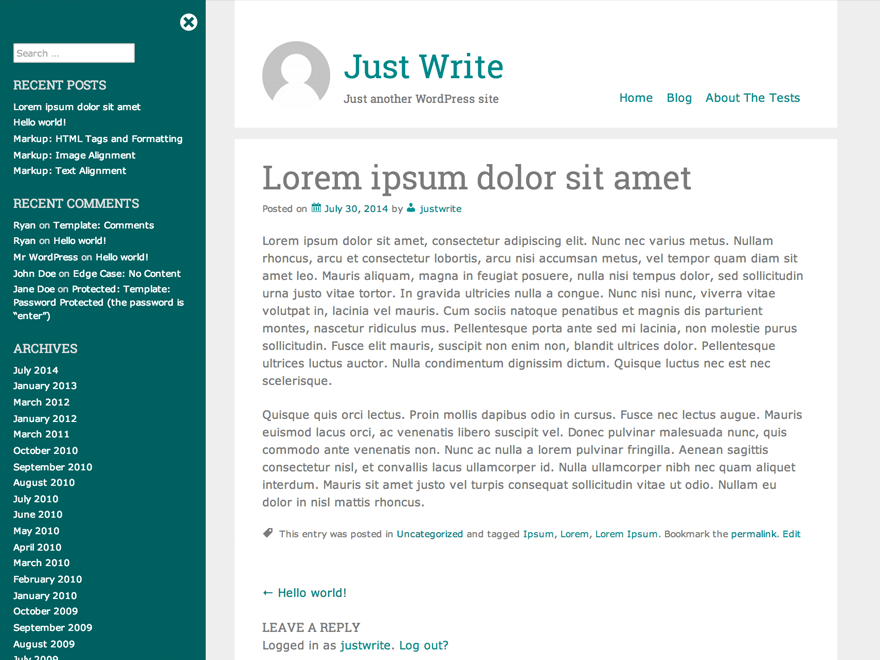
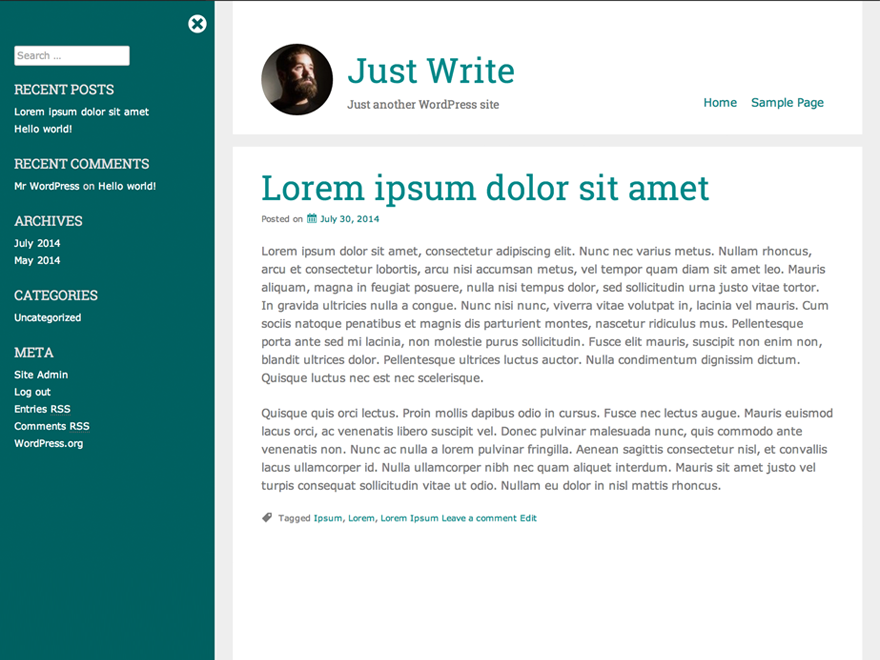
Fix Gravatar in header, add screenshot

diff --git a/style.css b/style.css
@@ -1,7 +1,7 @@
 @charset "UTF-8";
 /*!
 Theme Name: Just Write
-Theme URI: http://justwrite.ryanscowles.com/
+Theme URI: http://justwrite.ryanscowles.com
 Author: Ryan Cowles
 Author URI: http://ryanscowles.com
 Description: Just Write is a simple theme, geared towards writers and bloggers who want the focus of their site to be on their written content. It includes a primary menu, and a sidebar that can be toggled.
@@ -10,7 +10,7 @@ License: GNU General Public License v2 or later
 License URI: http://www.gnu.org/licenses/gpl-2.0.html
 Text Domain: just-write
 Domain Path: /languages/
-Tags: black, gray, light, two-column, left-sidebar, responsive-layout, custom-background, custom-menu, editor-style, sticky-post, theme-options, threaded-comments
+Tags: green, gray, white, light, one-column, left-sidebar, responsive-layout, custom-background, custom-menu, editor-style, sticky-post, theme-options, threaded-comments
 
 GitHub Theme URI: https://github.com/RCowles/just-write/
 GitHub Branch: master

diff --git a/sass/style.scss b/sass/style.scss
@@ -1,6 +1,6 @@
 /*!
 Theme Name: Just Write
-Theme URI: http://justwrite.ryanscowles.com/
+Theme URI: http://justwrite.ryanscowles.com
 Author: Ryan Cowles
 Author URI: http://ryanscowles.com
 Description: Just Write is a simple theme, geared towards writers and bloggers who want the focus of their site to be on their written content. It includes a primary menu, and a sidebar that can be toggled.
@@ -9,7 +9,7 @@ License: GNU General Public License v2 or later
 License URI: http://www.gnu.org/licenses/gpl-2.0.html
 Text Domain: just-write
 Domain Path: /languages/
-Tags: black, gray, light, two-column, left-sidebar, responsive-layout, custom-background, custom-menu, editor-style, sticky-post, theme-options, threaded-comments
+Tags: green, gray, white, light, one-column, left-sidebar, responsive-layout, custom-background, custom-menu, editor-style, sticky-post, theme-options, threaded-comments
 
 GitHub Theme URI: https://github.com/RCowles/just-write/
 GitHub Branch: master

diff --git a/header.php b/header.php
@@ -25,7 +25,7 @@
 <div id="page" class="hfeed site">
 
 	<header id="masthead" class="site-header" role="banner">
-		<?php echo get_avatar( get_the_author_meta( 'ID' ), 100 ); ?>
+		<?php echo get_avatar( get_option( 'admin_email' ), 100 ); ?>
 		<div class="site-branding">
 			<h1 class="site-title"><a href="<?php echo esc_url( home_url( '/' ) ); ?>" rel="home"><?php bloginfo( 'name' ); ?></a></h1>
 			<h2 class="site-description"><?php bloginfo( 'description' ); ?></h2>
